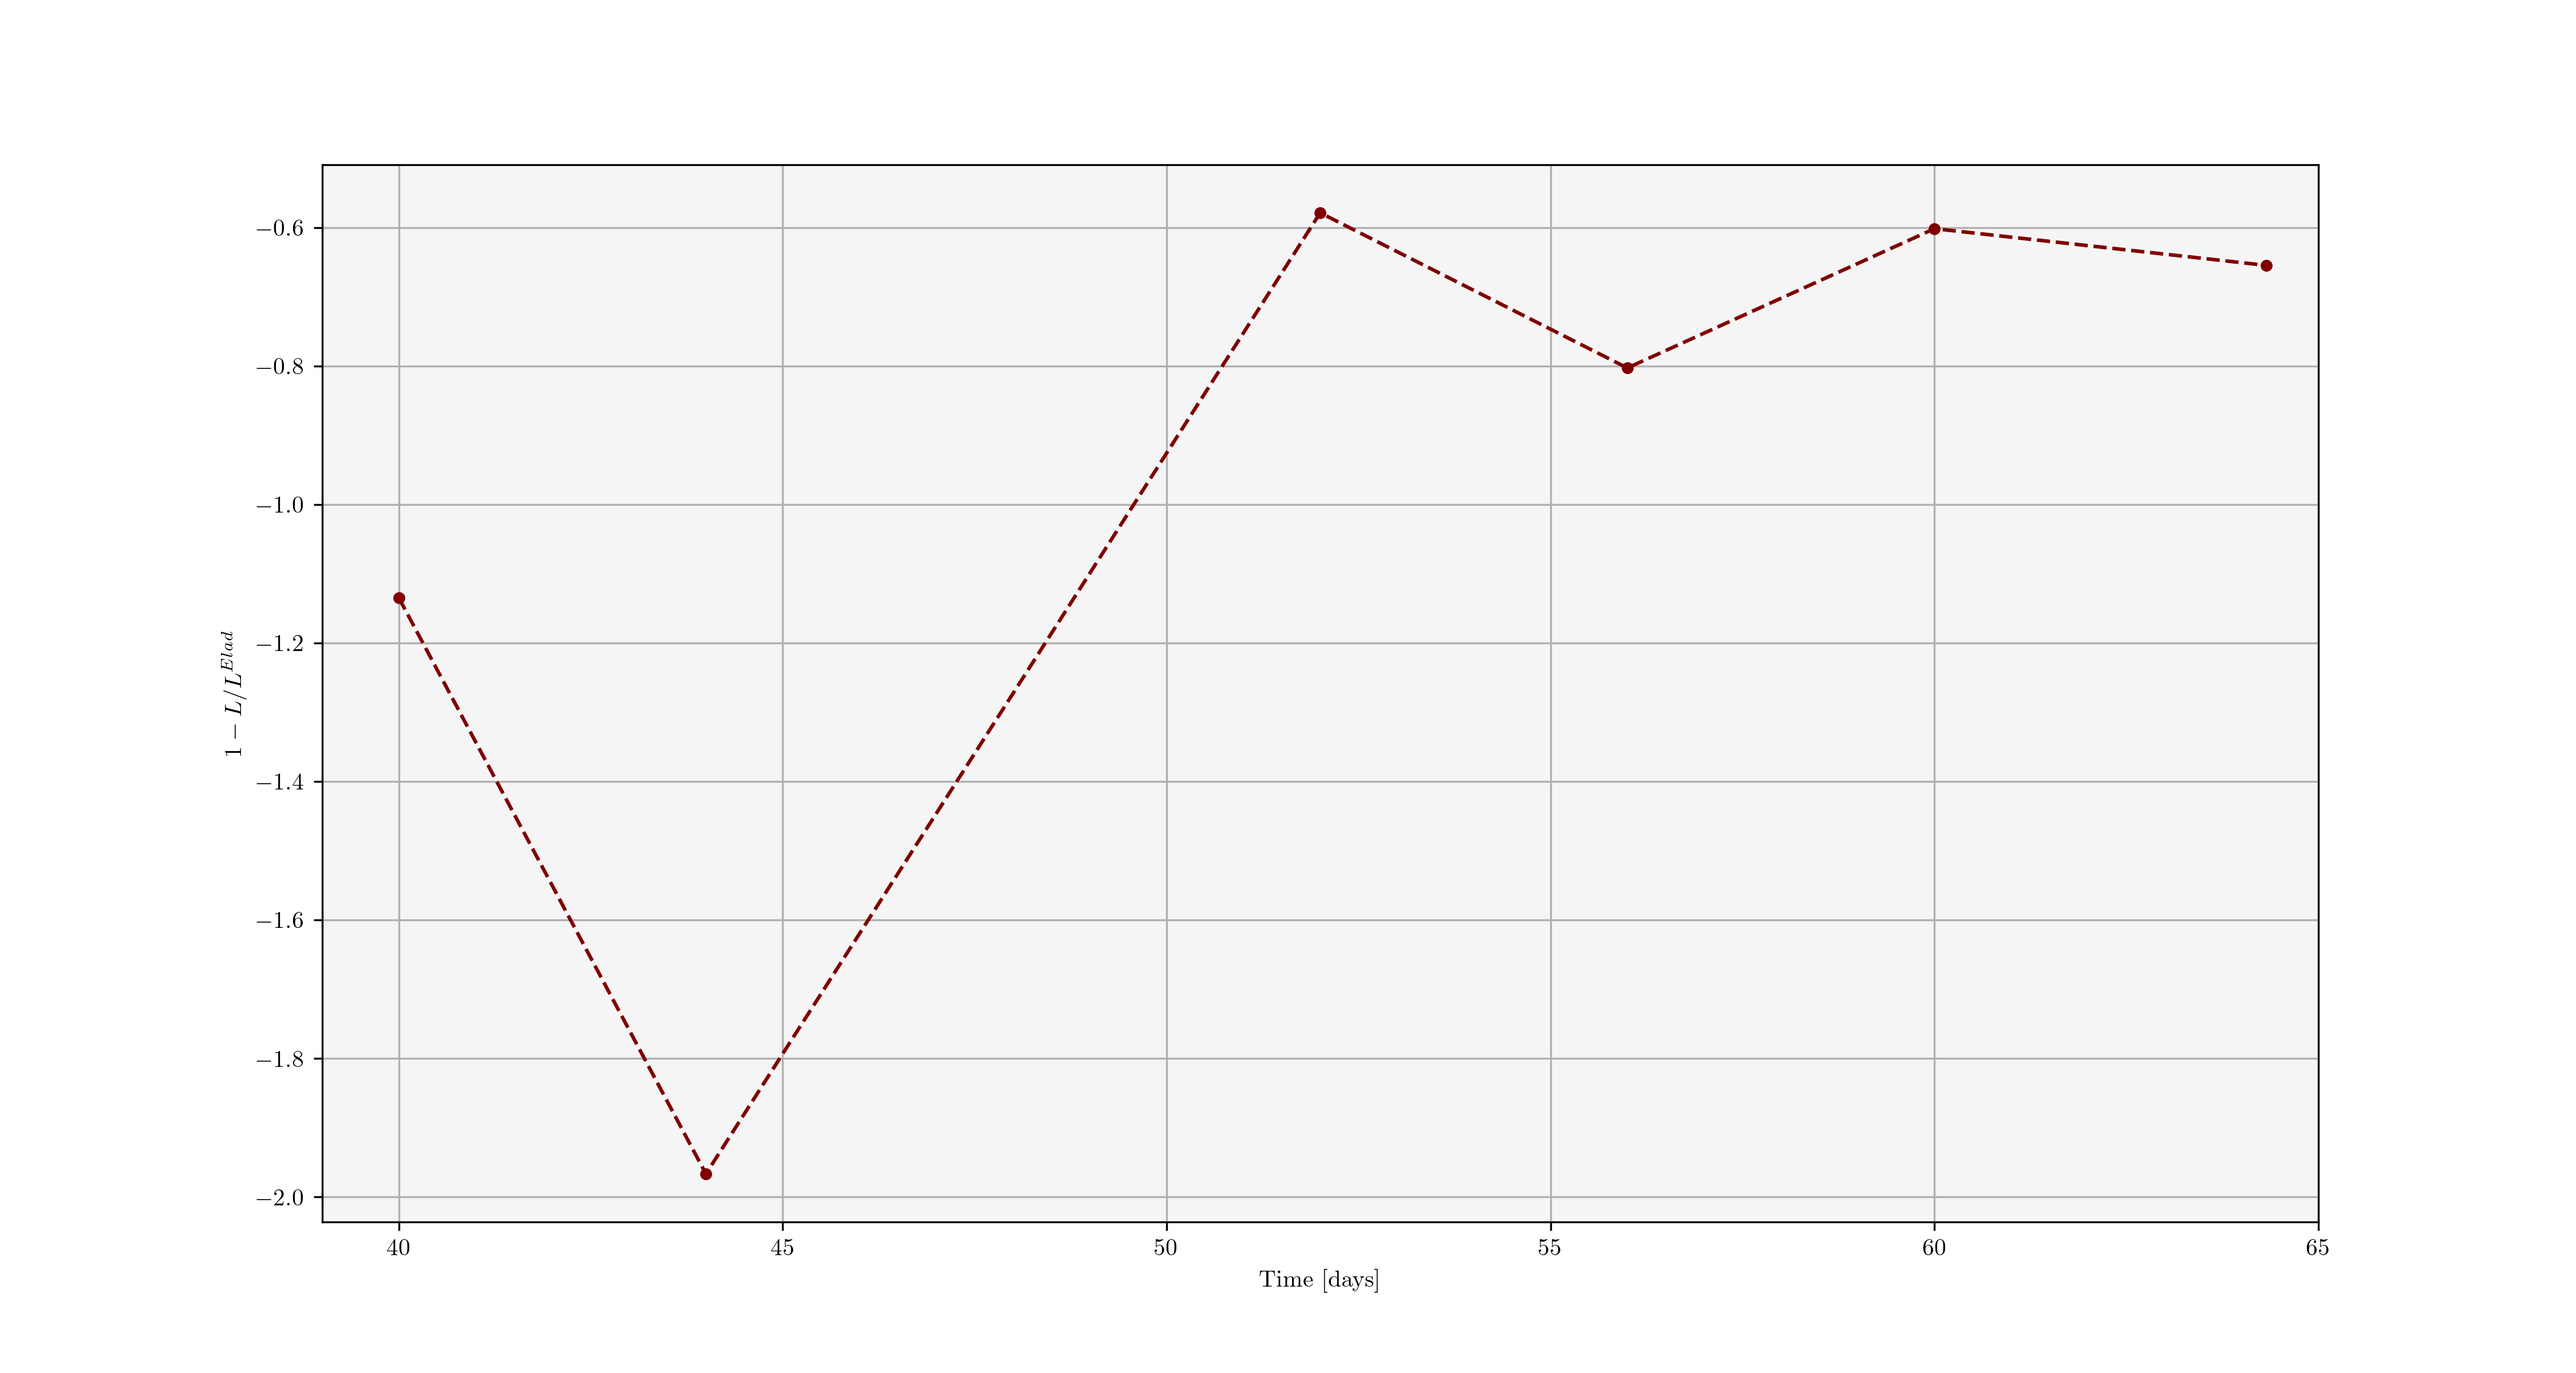
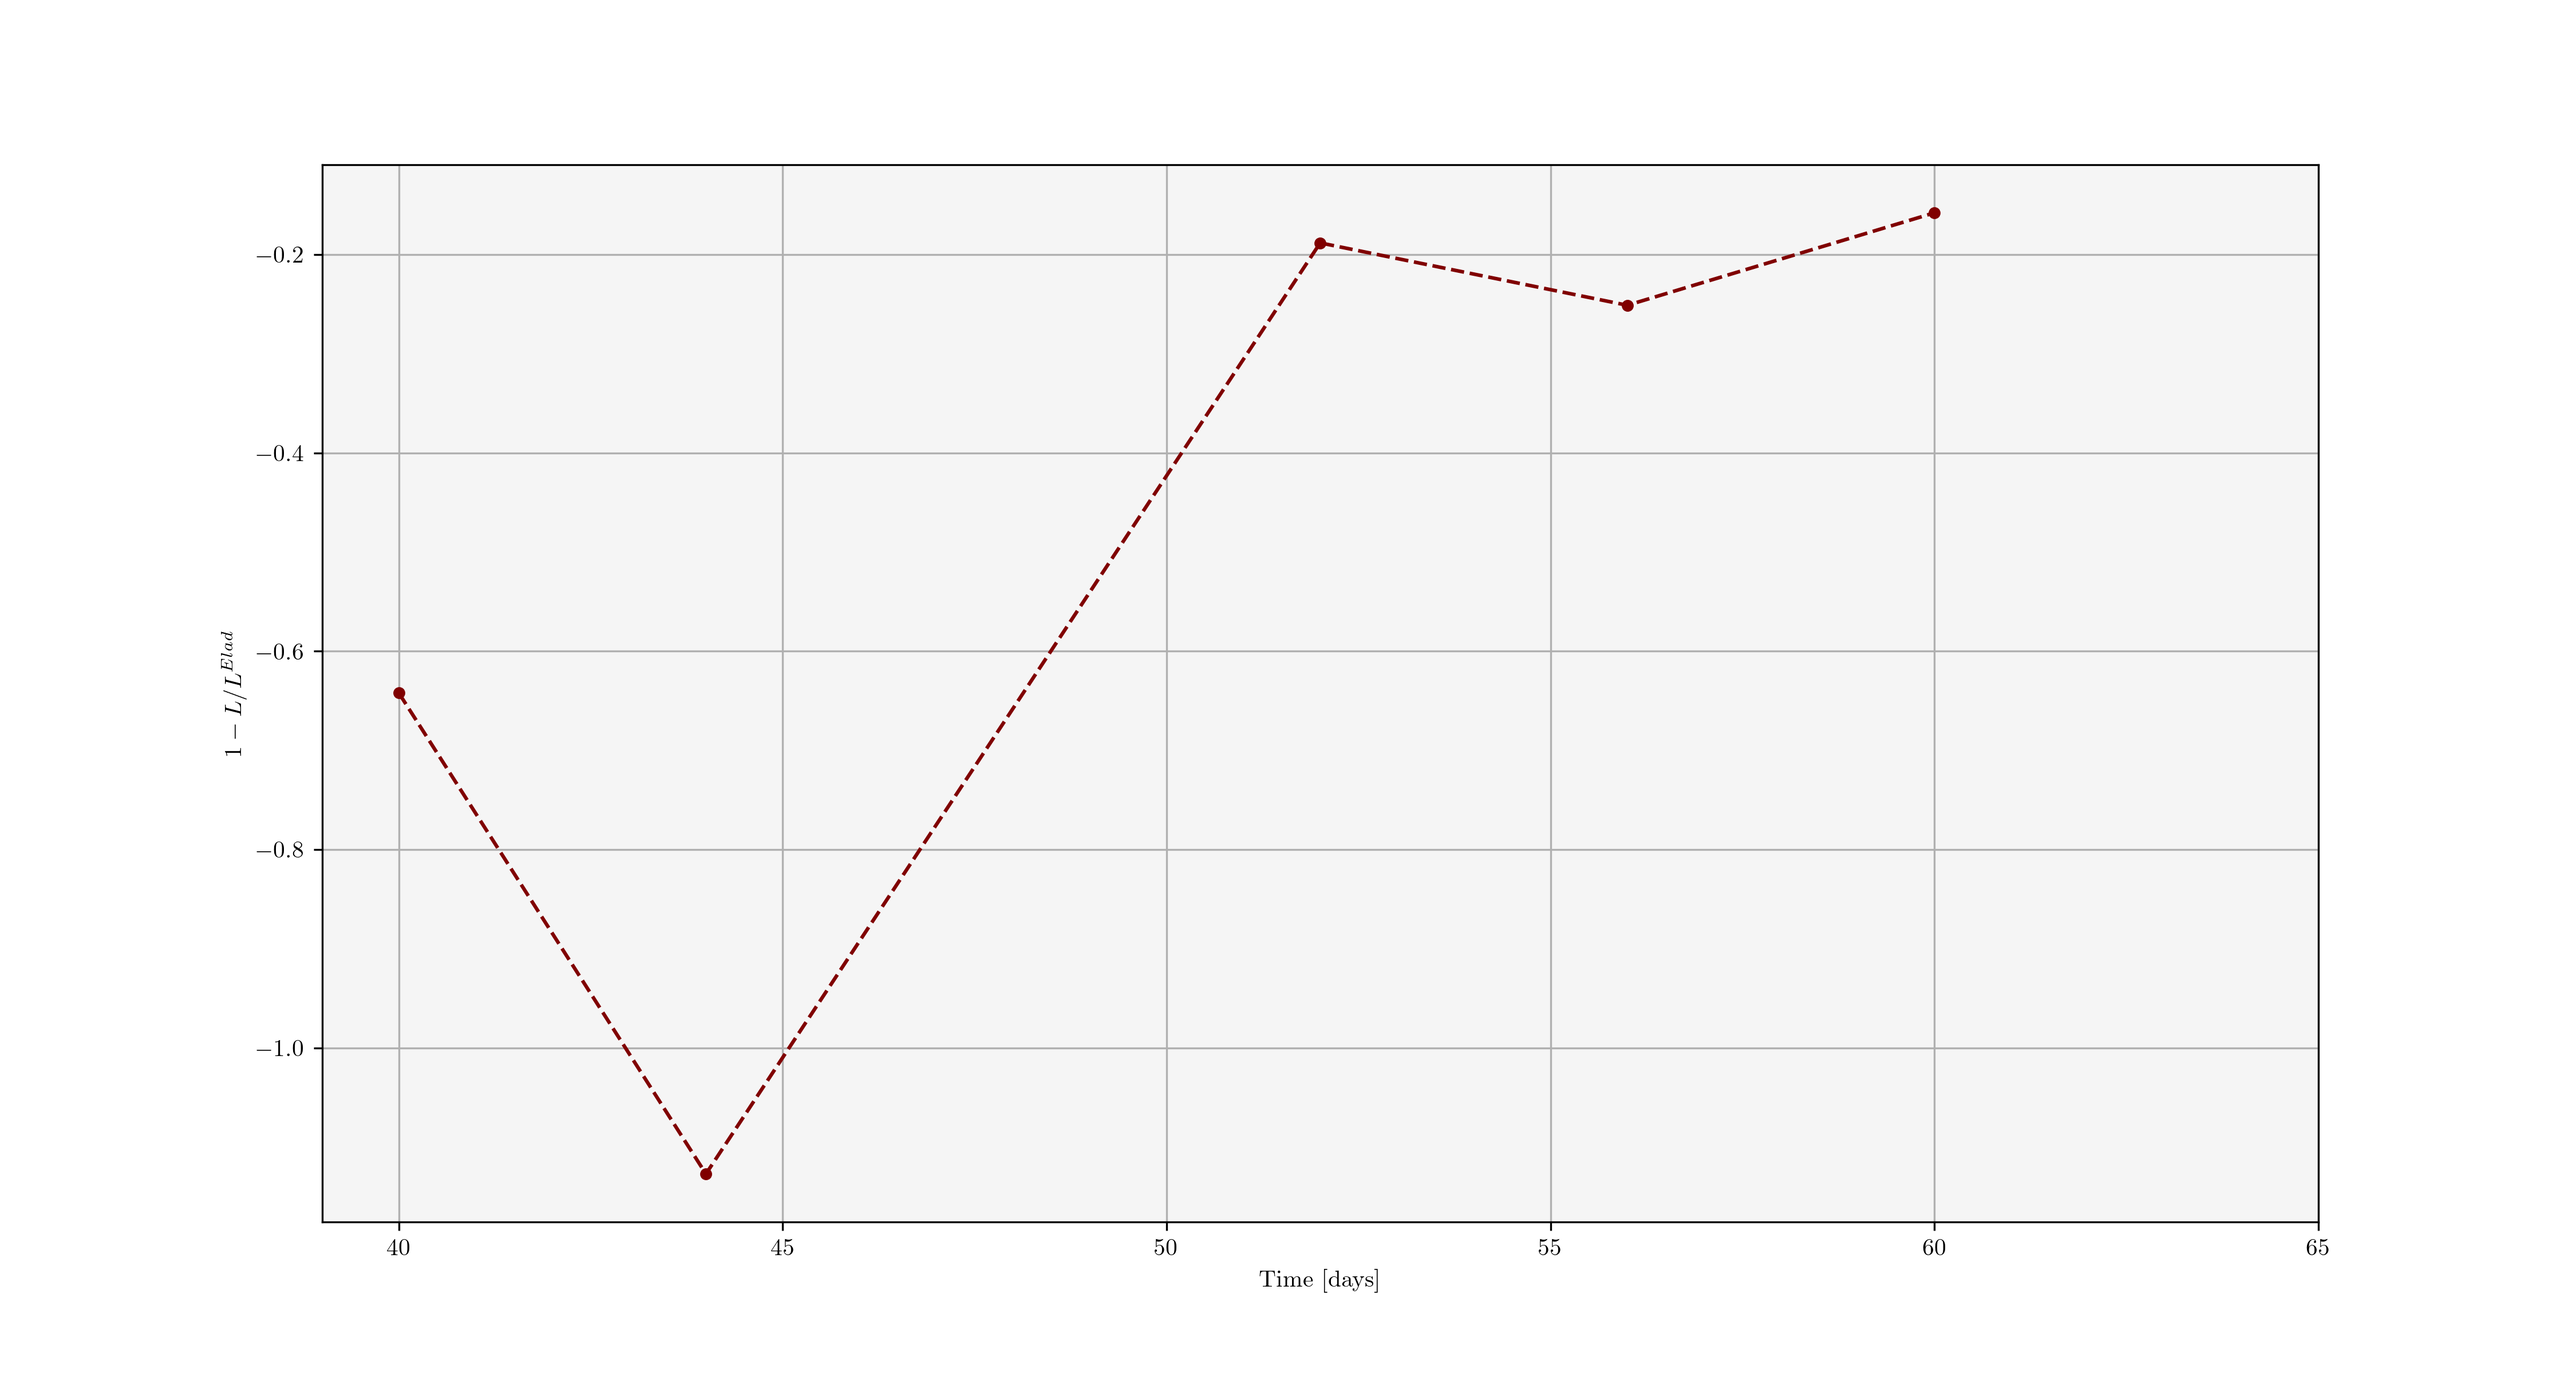
new comparison with Elad

diff --git a/src/Luminosity/red_tree.py b/src/Luminosity/red_tree.py
@@ -54,8 +54,8 @@ def select_fix(m):
             snapshots = np.arange(844, 1008 + 1)
             days = [1.00325,1.007,1.01075,1.01425,1.018,1.02175,1.0255,1.029,1.03275,1.0365,1.04025,1.04375,1.0475,1.05125,1.055,1.0585,1.06225,1.066,1.06975,1.07325,1.077,1.08075,1.0845,1.088,1.09175,1.0955,1.09925,1.10275,1.1065,1.11025,1.114,1.1175,1.12125,1.125,1.12875,1.13225,1.136,1.13975,1.1435,1.147,1.15075,1.1545,1.15825,1.16175,1.1655,1.16925,1.173,1.1765,1.18025,1.184,1.18775,1.19125,1.195,1.19875,1.2025,1.206,1.20975,1.2135,1.21725,1.22075,1.2245,1.22825,1.232,1.2355,1.23925,1.243,1.24675,1.25025,1.254,1.25775,1.2615,1.265,1.26875,1.2725,1.27625,1.27975,1.2835,1.28725,1.291,1.2945,1.29825,1.302,1.30575,1.30925,1.313,1.31675,1.3205,1.324,1.32775,1.3315,1.33525,1.33875,1.3425,1.34625,1.35,1.3535,1.35725,1.361,1.36475,1.36825,1.372,1.37575,1.3795,1.383,1.38675,1.3905,1.39425,1.39775,1.4015,1.40525,1.409,1.4125,1.41625,1.42,1.42375,1.42725,1.431,1.43475,1.4385,1.442,1.44575,1.4495,1.45325,1.45675,1.4605,1.46425,1.468,1.4715,1.47525,1.479,1.48275,1.48625,1.49,1.49375,1.4975,1.501,1.50475,1.5085,1.51225,1.51575,1.5195,1.52325,1.527,1.5305,1.53425,1.538,1.54175,1.54525,1.549,1.55275,1.5565,1.56,1.56375,1.5675,1.57125,1.57475,1.5785,1.58225,1.586,1.5895,1.59325,1.597,1.60075,1.60425,1.608]
         else:
-            snapshots = [844, 881, 925, 950]#, 980, 1008] 
-            days = [1, 1.1, 1.3, 1.4]#, 1.5, 1.608] 
+            snapshots = [844, 881, 925, 950, 980]#, 1008] 
+            days = [1, 1.1, 1.3, 1.4, 1.5]#, 1.608] 
     return snapshots, days
 
 # def find_neighbours(fix, m, rays_index_photo):
